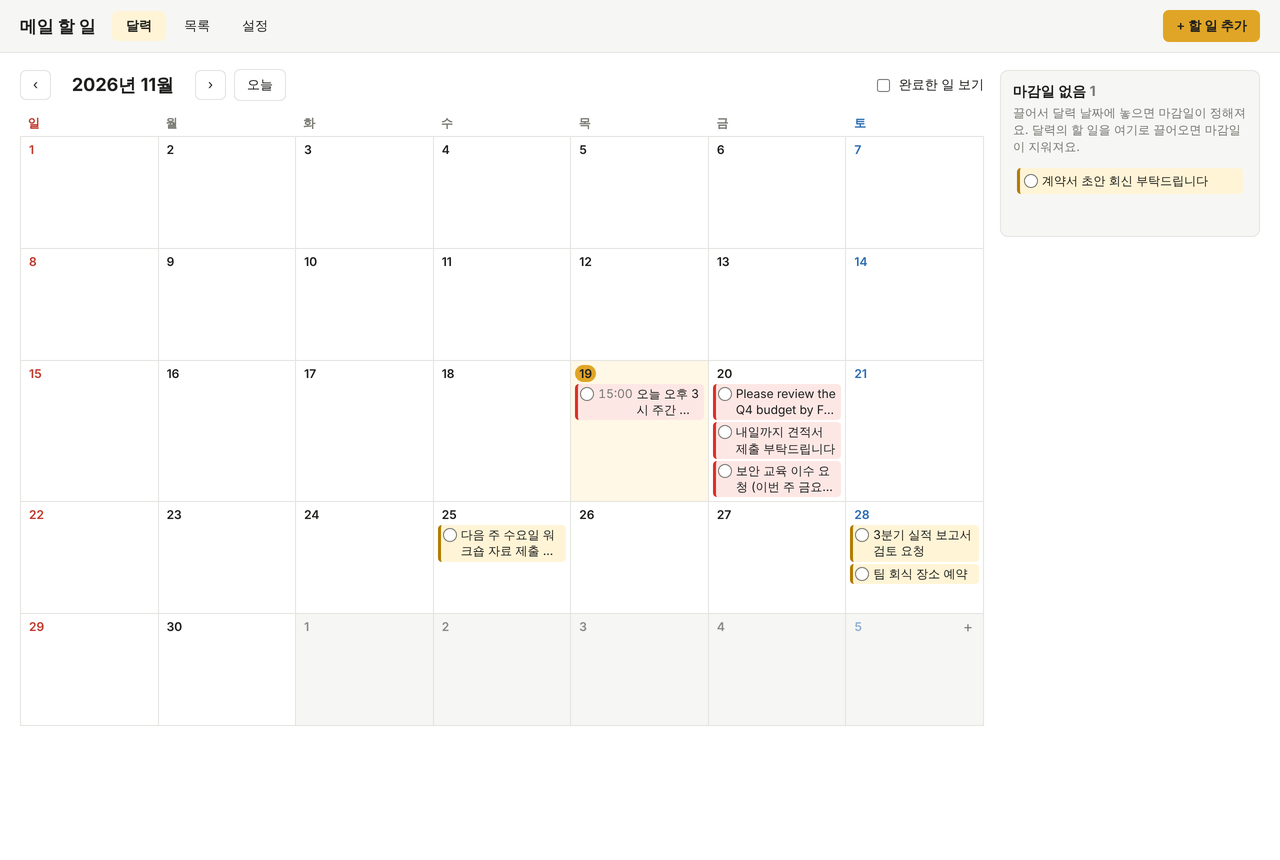
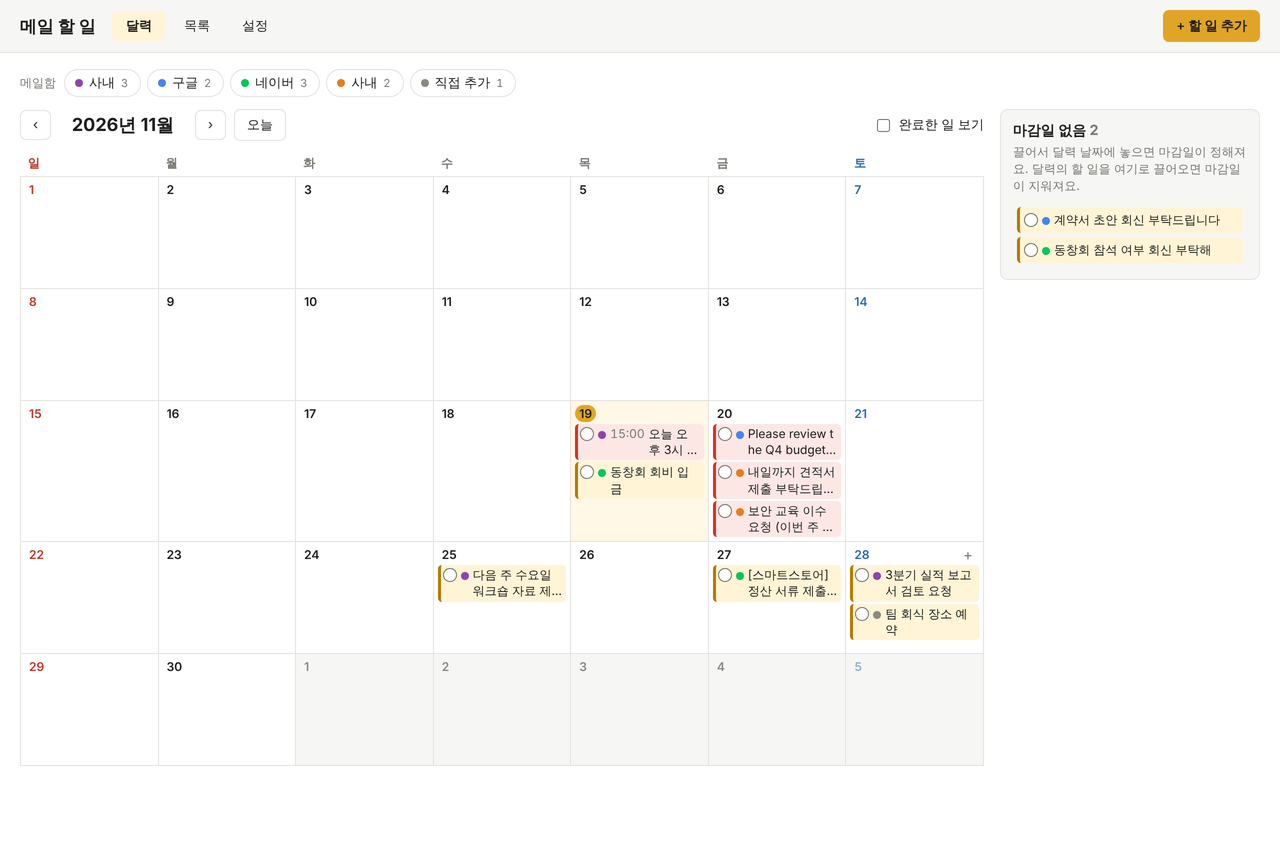
메일 할 일: 구글·네이버·사내 메일함 구분과 메일함별 골라 보기
- 할 일마다 메일함 색 점과 이름 표시(달력, 목록, 팝업)
- 구글·네이버는 이름·색 자동, 그 밖의 메일함은 "사내"로 시작
- 설정 탭과 팝업에서 메일함 이름·색 변경
- 달력·목록 위 메일함 버튼으로 특정 메일함만 보기
- 편집 창에서 메일함 선택(직접 추가한 할 일 포함)
- 네이버 메일형 가짜 메일함과 메일함 구분 검사를 브라우저 테스트에 추가

Claude-Session: https://claude.ai/code/session_01Af8qia7RZBuEQAudVgsqeA

diff --git a/mail-todo/pages/dashboard.js b/mail-todo/pages/dashboard.js
@@ -1,6 +1,7 @@
 // 달력·목록·설정 화면
 import { DEFAULT_RULES, addDays, mergeRules, parseYmd, sitePattern, ymd } from '../src/rules.js';
 import { aiAvailability, prepareModel, refineSubject } from '../src/ai.js';
+import { listMailboxes, mailboxOf } from '../src/mailboxes.js';
 
 const $ = (id) => document.getElementById(id);
 const send = (msg) => chrome.runtime.sendMessage(msg);
@@ -11,6 +12,13 @@ let todos = [];
 let settings = {};
 let sites = [];
 let view = new Date(new Date().getFullYear(), new Date().getMonth(), 1);
+
+// 숨긴 메일함(이 브라우저에서만 기억하는 보기 설정)
+const hidden = new Set((() => { try { return JSON.parse(localStorage.getItem('hiddenMailboxes') || '[]'); } catch { return []; } })());
+const saveHidden = () => { try { localStorage.setItem('hiddenMailboxes', JSON.stringify([...hidden])); } catch { /* 저장 못 해도 동작 */ } };
+const mb = (t) => mailboxOf(t.site, settings.mailboxes);
+const shown = (t) => !hidden.has(t.site || '');
+const dot = (m) => h('span', { class: 'mb-dot', style: `background:${m.color}`, 'aria-hidden': 'true' });
 
 // 사용자 데이터(메일 제목 등)는 항상 textContent로만 넣습니다.
 function h(tag, props = {}, ...children) {
@@ -78,9 +86,29 @@ const currentTab = () => document.querySelector('.tabs button[aria-selected="tru
 
 function render() {
   const tab = currentTab();
+  $('mbBar').hidden = tab === 'settings';
+  if (tab !== 'settings') renderMailboxBar();
   if (tab === 'calendar') renderCalendar();
   else if (tab === 'list') renderList();
   else renderSettings();
+}
+
+// ---------- 메일함 골라 보기 ----------
+function renderMailboxBar() {
+  const boxes = listMailboxes(sites, todos, settings.mailboxes);
+  const bar = $('mbBar');
+  if (boxes.length < 2) { bar.replaceChildren(); bar.hidden = true; return; }
+  const count = (key) => todos.filter((t) => !t.done && (t.site || '') === key).length;
+  bar.replaceChildren(
+    h('span', { class: 'mb-label', text: '메일함' }),
+    ...boxes.map((m) => h('button', {
+      class: 'mb-toggle',
+      'aria-pressed': String(!hidden.has(m.key)),
+      title: m.key ? `${m.name} (${m.key})` : m.name,
+      onclick: () => { hidden.has(m.key) ? hidden.delete(m.key) : hidden.add(m.key); saveHidden(); render(); },
+    }, dot(m), h('span', { text: m.name }), h('span', { class: 'mb-count', text: String(count(m.key)) }))),
+    ...(hidden.size ? [h('button', { class: 'link', text: '모두 보기', onclick: () => { hidden.clear(); saveHidden(); render(); } })] : []),
+  );
 }
 
 // ---------- 할 일 조각(달력·사이드 공용) ----------
@@ -88,7 +116,7 @@ function chip(t) {
   const el = h('div', {
     class: `chip p-${t.priority}${t.done ? ' done' : ''}${isOverdue(t) ? ' overdue' : ''}`,
     draggable: 'true',
-    title: [t.title, t.dueTime && `시간: ${t.dueTime}`, t.memo && `메모: ${t.memo}`, t.subject && t.subject !== t.title && `메일: ${t.subject}`].filter(Boolean).join('\n'),
+    title: [t.title, `메일함: ${mb(t).name}`, t.dueTime && `시간: ${t.dueTime}`, t.memo && `메모: ${t.memo}`, t.subject && t.subject !== t.title && `메일: ${t.subject}`].filter(Boolean).join('\n'),
     dataset: { id: t.id },
     onclick: () => openEdit(t.id),
     ondragstart: (e) => { e.dataTransfer.setData('text/plain', t.id); e.dataTransfer.effectAllowed = 'move'; el.classList.add('dragging'); },
@@ -100,6 +128,7 @@ function chip(t) {
     text: t.done ? '✓' : '',
     onclick: (e) => { e.stopPropagation(); toggleDone(t); },
   }),
+  dot(mb(t)),
   t.dueTime && h('span', { class: 'time', text: t.dueTime }),
   h('span', { class: 't', text: t.title }),
   t.aiDoubt && !t.done && h('span', { class: 'ai-doubt', title: '내장 AI는 할 일이 아닐 수 있다고 판단했어요', text: 'AI?' }));
@@ -125,7 +154,7 @@ function renderCalendar() {
 
   const byDate = new Map();
   for (const t of todos) {
-    if (!t.due || (!showDone && t.done)) continue;
+    if (!t.due || (!showDone && t.done) || !shown(t)) continue;
     if (!byDate.has(t.due)) byDate.set(t.due, []);
     byDate.get(t.due).push(t);
   }
@@ -157,7 +186,7 @@ function renderCalendar() {
     grid.append(cell);
   }
 
-  const noDue = sortTodos(todos.filter((t) => !t.due && (showDone || !t.done)));
+  const noDue = sortTodos(todos.filter((t) => !t.due && (showDone || !t.done) && shown(t)));
   $('noDueCount').textContent = noDue.length ? `${noDue.length}` : '';
   $('noDueList').replaceChildren(...(noDue.length ? noDue.map((t) => h('li', {}, chip(t))) : [h('li', { class: 'empty', text: '없음' })]));
 }
@@ -172,7 +201,7 @@ makeDropZone($('noDueList'), '');
 function renderList() {
   const filter = $('listFilter').value;
   const q = $('listSearch').value.trim().toLowerCase();
-  let list = todos.filter((t) => (filter === 'all' ? true : filter === 'done' ? t.done : !t.done));
+  let list = todos.filter((t) => shown(t) && (filter === 'all' ? true : filter === 'done' ? t.done : !t.done));
   if (q) list = list.filter((t) => [t.title, t.memo, t.subject].some((s) => (s || '').toLowerCase().includes(q)));
   list = sortTodos(list);
   $('listCount').textContent = `${list.length}개`;
@@ -208,6 +237,7 @@ function row(t) {
       h('div', { class: 'title', text: t.title }),
       (t.memo || (t.subject && t.subject !== t.title)) && h('div', { class: 'sub', text: t.memo || `메일: ${t.subject}` })),
     t.aiDoubt && !t.done && h('span', { class: 'ai-doubt', title: '내장 AI는 할 일이 아닐 수 있다고 판단했어요', text: 'AI: 할 일 아님?' }),
+    h('span', { class: 'mb-tag', title: t.site || '' }, dot(mb(t)), mb(t).name),
     h('span', { class: `badge p-${t.priority}`, text: PRIORITY_LABEL[t.priority] }),
     h('span', { class: `due${isOverdue(t) ? ' overdue' : ''}`, text: formatDue(t) }),
     t.link && h('a', { href: t.link, target: '_blank', rel: 'noopener', text: '메일 ↗' }),
@@ -231,6 +261,12 @@ function openEdit(id, date = '') {
   $('fPriority').value = t?.priority || 'normal';
   $('fMemo').value = t?.memo || '';
   $('fDone').checked = !!t?.done;
+  const boxes = listMailboxes(sites, todos, settings.mailboxes);
+  if (!boxes.some((m) => m.key === '')) boxes.push(mailboxOf(''));
+  $('fMailbox').replaceChildren(...boxes.map((m) => h('option', { value: m.key, text: m.key ? `${m.name} (${m.key})` : m.name })));
+  // 새로 추가할 때는 지금 하나만 보고 있는 메일함을 기본값으로
+  const onlyShown = boxes.filter((m) => !hidden.has(m.key));
+  $('fMailbox').value = t ? t.site || '' : onlyShown.length === 1 ? onlyShown[0].key : '';
   $('fDelete').hidden = !t;
   const fromMail = t?.source === 'mail';
   $('fOrigin').hidden = !fromMail;
@@ -254,6 +290,7 @@ $('editForm').addEventListener('submit', async (e) => {
     priority: $('fPriority').value,
     memo: $('fMemo').value,
     done: $('fDone').checked,
+    site: $('fMailbox').value,
   };
   if (editingId) await update(editingId, { ...fields, edited: true, aiDoubt: false });
   else await send({ type: 'todo:add', todo: { ...fields, source: 'manual' } });
@@ -270,9 +307,23 @@ $('addBtn').onclick = () => openEdit(null, currentTab() === 'calendar' ? today()
 
 // ---------- 설정 ----------
 function renderSettings() {
-  $('siteList').replaceChildren(...(sites.length
+  const saveMailbox = (host, patch) => send({
+    type: 'settings:set',
+    patch: { mailboxes: { ...(settings.mailboxes || {}), [host]: { ...mailboxOf(host, settings.mailboxes), ...patch, key: undefined } } },
+  });
+  // 이름을 고치는 중이면 다시 그리지 않음(입력이 끊기지 않게)
+  if (!document.activeElement?.closest('#siteList')) $('siteList').replaceChildren(...(sites.length
     ? sites.map((host) => h('li', {},
-      h('span', { text: host }),
+      h('input', { type: 'color', value: mailboxOf(host, settings.mailboxes).color, 'aria-label': `${host} 색`, onchange: (e) => saveMailbox(host, { color: e.target.value }) }),
+      h('input', {
+        type: 'text',
+        class: 'mb-name',
+        value: mailboxOf(host, settings.mailboxes).name,
+        maxlength: '20',
+        'aria-label': `${host} 이름`,
+        onchange: (e) => { const name = e.target.value.trim(); if (name) saveMailbox(host, { name }); },
+      }),
+      h('span', { class: 'muted host', text: host }),
       h('button', {
         class: 'danger',
         text: '끄기',

diff --git a/mail-todo/pages/popup.js b/mail-todo/pages/popup.js
@@ -1,4 +1,5 @@
 import { sitePattern, ymd } from '../src/rules.js';
+import { mailboxOf } from '../src/mailboxes.js';
 
 const $ = (id) => document.getElementById(id);
 const send = (msg) => chrome.runtime.sendMessage(msg);
@@ -20,14 +21,33 @@ async function renderSite() {
     $('siteState').hidden = true;
     $('siteHelp').textContent = '사내 메일, Gmail, Outlook 같은 메일함을 연 상태에서 아이콘을 눌러 주세요.';
     $('toggleSite').hidden = true;
+    $('siteDot').hidden = true;
+    $('mbNameRow').hidden = true;
     return;
   }
   host = url.hostname;
-  const { sites = [] } = await chrome.storage.local.get('sites');
+  const { sites = [], settings = {} } = await chrome.storage.local.get(['sites', 'settings']);
   const granted = await chrome.permissions.contains({ origins: [sitePattern(host)] });
   const on = granted && sites.includes(host);
+  const m = mailboxOf(host, settings.mailboxes);
 
-  $('siteName').textContent = host;
+  $('siteName').textContent = on ? `${m.name} · ${host}` : host;
+  $('siteName').title = host;
+  $('siteDot').hidden = !on;
+  $('siteDot').style.background = m.color;
+  $('mbNameRow').hidden = !on;
+  if (document.activeElement !== $('mbName')) $('mbName').value = m.name;
+  $('mbName').onchange = async () => {
+    const name = $('mbName').value.trim();
+    if (!name) { $('mbName').value = m.name; return; }
+    const { settings: cur = {} } = await chrome.storage.local.get('settings');
+    const mailboxes = { ...(cur.mailboxes || {}) };
+    const { key, ...base } = mailboxOf(host, mailboxes);
+    mailboxes[host] = { ...base, name };
+    await send({ type: 'settings:set', patch: { mailboxes } });
+    say(`메일함 이름을 "${name}"(으)로 바꿨어요.`);
+    renderSite();
+  };
   $('siteState').textContent = on ? '수집 중' : '꺼짐';
   $('siteState').classList.toggle('on', on);
   $('siteHelp').textContent = on
@@ -78,7 +98,7 @@ $('pickBtn').onclick = async () => {
 };
 
 async function renderDue() {
-  const { todos = [] } = await chrome.storage.local.get('todos');
+  const { todos = [], settings = {} } = await chrome.storage.local.get(['todos', 'settings']);
   const today = ymd(new Date());
   const due = todos
     .filter((t) => !t.done && t.due && t.due <= today)
@@ -108,11 +128,18 @@ async function renderDue() {
     const d = document.createElement('span');
     d.className = `d${t.due < today ? ' overdue' : ''}`;
     d.textContent = t.due < today ? `${t.due.slice(5).replace('-', '/')} 지남` : (t.dueTime || '오늘');
-    li.append(chk, title, d);
+    const m = mailboxOf(t.site, settings.mailboxes);
+    const mbEl = document.createElement('span');
+    mbEl.className = 'mb';
+    const dotEl = document.createElement('span');
+    dotEl.className = 'mb-dot';
+    dotEl.style.background = m.color;
+    mbEl.append(dotEl, m.name);
+    li.append(chk, title, mbEl, d);
     list.append(li);
   }
 }
 
-chrome.storage.onChanged.addListener((c, area) => { if (area === 'local' && c.todos) renderDue(); });
+chrome.storage.onChanged.addListener((c, area) => { if (area === 'local' && (c.todos || c.settings)) renderDue(); });
 renderSite();
 renderDue();

diff --git a/mail-todo/src/mailboxes.js b/mail-todo/src/mailboxes.js
@@ -1,0 +1,35 @@
+// 메일함(사이트)마다 이름과 색을 붙여 할 일을 구분합니다.
+// 사용자가 설정에서 이름·색을 바꾸면 settings.mailboxes[host]에 저장됩니다.
+
+const KNOWN = [
+  [/^mail\.google\.com$/, '구글', '#4285f4'],
+  [/^mail\.naver\.com$/, '네이버', '#03c75a'],
+  [/^mail\.worksmobile\.com$/, '네이버웍스', '#00a0e9'],
+  [/^outlook\.(office|office365|live)\.com$/, 'Outlook', '#0f6cbd'],
+  [/^mail\.daum\.net$/, '다음', '#ff5a4a'],
+];
+
+// 알려지지 않은 메일함(대부분 사내 그룹웨어)에 차례로 쓰는 색
+const PALETTE = ['#8e44ad', '#e67e22', '#16a085', '#c2185b', '#5d6d7e', '#b7950b'];
+
+export const MANUAL = { key: '', name: '직접 추가', color: '#8a8a84' };
+
+export function defaultMailbox(host, existing = {}) {
+  for (const [re, name, color] of KNOWN) if (re.test(host)) return { name, color };
+  const used = new Set(Object.values(existing).map((m) => m.color));
+  const color = PALETTE.find((c) => !used.has(c)) || PALETTE[Object.keys(existing).length % PALETTE.length];
+  return { name: '사내', color };
+}
+
+export function mailboxOf(site, mailboxes = {}) {
+  if (!site) return MANUAL;
+  return { key: site, ...defaultMailbox(site, mailboxes), ...(mailboxes[site] || {}) };
+}
+
+// 화면에 보여 줄 메일함 목록: 켠 사이트 + 할 일에 남아 있는 사이트 + 직접 추가
+export function listMailboxes(sites, todos, mailboxes = {}) {
+  const keys = [...new Set([...sites, ...todos.map((t) => t.site || '').filter(Boolean)])];
+  const list = keys.map((k) => mailboxOf(k, mailboxes));
+  if (todos.some((t) => !t.site)) list.push(MANUAL);
+  return list;
+}

diff --git a/mail-todo/pages/dashboard.css b/mail-todo/pages/dashboard.css
@@ -199,3 +199,25 @@ dialog input[type="text"], dialog textarea { width: 100%; font-weight: 400; }
   .rules { grid-template-columns: 1fr; }
   .day { min-height: 80px; }
 }
+
+/* ---------- 메일함 구분 ---------- */
+.mb-bar[hidden] { display: none; }
+.mb-bar { display: flex; flex-wrap: wrap; align-items: center; gap: 6px; margin-bottom: 12px; }
+.mb-label { font-size: 12px; color: var(--muted); margin-right: 2px; }
+.mb-toggle {
+  display: inline-flex;
+  align-items: center;
+  gap: 6px;
+  border-radius: 999px;
+  padding: 4px 12px 4px 10px;
+}
+.mb-toggle[aria-pressed="false"] { opacity: .45; }
+.mb-toggle[aria-pressed="false"] span:not(.mb-dot) { text-decoration: line-through; }
+.mb-count { font-size: 11px; color: var(--muted); font-variant-numeric: tabular-nums; }
+.mb-dot { width: 8px; height: 8px; border-radius: 50%; flex-shrink: 0; display: inline-block; }
+.chip .mb-dot { margin-top: 5px; }
+.mb-tag { display: inline-flex; align-items: center; gap: 5px; font-size: 12px; color: var(--muted); white-space: nowrap; }
+.site-list li { gap: 10px; justify-content: flex-start; }
+.site-list li .host { flex: 1; font-size: 12px; }
+.site-list input[type="color"] { width: 28px; height: 28px; padding: 0; border: 1px solid var(--border); border-radius: 6px; background: none; cursor: pointer; }
+.site-list .mb-name { width: 140px; }

diff --git a/mail-todo/pages/dashboard.html b/mail-todo/pages/dashboard.html
@@ -20,6 +20,9 @@
   </header>
 
   <main>
+    <!-- 메일함별로 골라 보기 (달력·목록 공통) -->
+    <div id="mbBar" class="mb-bar" role="group" aria-label="메일함 골라 보기"></div>
+
     <!-- 달력 -->
     <section id="tab-calendar" class="tab">
       <div class="cal-layout">
@@ -63,7 +66,7 @@
       <div class="settings">
         <article class="card">
           <h3>할 일을 수집하는 메일함</h3>
-          <p class="muted">메일함 페이지에서 툴바의 확장 프로그램 아이콘을 누르고 <b>이 메일함에서 켜기</b>를 누르면 여기에 추가돼요.</p>
+          <p class="muted">메일함 페이지에서 툴바의 확장 프로그램 아이콘을 누르고 <b>이 메일함에서 켜기</b>를 누르면 여기에 추가돼요. 이름과 색을 바꾸면 달력과 목록에 그대로 표시돼요.</p>
           <ul id="siteList" class="site-list"></ul>
         </article>
 
@@ -122,6 +125,9 @@
             <option value="normal">보통</option>
             <option value="low">낮음</option>
           </select>
+        </label>
+        <label>메일함
+          <select id="fMailbox"></select>
         </label>
       </div>
       <label>메모<textarea id="fMemo" rows="4" maxlength="5000"></textarea></label>

diff --git a/mail-todo/src/background.js b/mail-todo/src/background.js
@@ -4,6 +4,7 @@
 // - 사용자가 켠 메일 사이트에만 content.js를 등록
 // 네트워크 요청은 하지 않습니다.
 import { analyzeSubject, mergeRules, sitePattern, subjectKey, ymd } from './rules.js';
+import { defaultMailbox } from './mailboxes.js';
 
 const SEEN_LIMIT = 5000;
 
@@ -97,8 +98,14 @@ async function enableSite(host, tabId) {
     runAt: 'document_idle',
     allFrames: true,
   }]);
-  const { sites = [] } = await get('sites');
+  const { sites = [], settings = {} } = await get(['sites', 'settings']);
   if (!sites.includes(host)) await set({ sites: [...sites, host] });
+  // 처음 켜는 메일함에 이름과 색을 정해 둠(구글/네이버는 자동, 그 밖은 "사내")
+  const mailboxes = { ...(settings.mailboxes || {}) };
+  if (!mailboxes[host]) {
+    mailboxes[host] = defaultMailbox(host, mailboxes);
+    await set({ settings: { ...settings, mailboxes } });
+  }
   if (tabId) {
     await chrome.scripting.executeScript({ target: { tabId, allFrames: true }, files: ['src/content.js'] }).catch(() => {});
   }

diff --git a/mail-todo/pages/popup.css b/mail-todo/pages/popup.css
@@ -39,3 +39,9 @@ section h2 { font-size: 13px; margin: 0 0 6px; }
 .chk:hover { border-color: var(--ok); }
 
 footer { padding: 8px 14px 0; font-size: 11px; }
+
+.mb-dot { width: 9px; height: 9px; border-radius: 50%; flex-shrink: 0; display: inline-block; }
+.mb-dot[hidden] { display: none; }
+.mb-name-row { display: flex; align-items: center; gap: 8px; margin-top: 8px; font-size: 12px; color: var(--muted); }
+.mb-name-row input { flex: 1; padding: 4px 8px; }
+.due-list .mb { font-size: 11px; color: var(--muted); white-space: nowrap; display: inline-flex; align-items: center; gap: 4px; }

diff --git a/mail-todo/pages/popup.html b/mail-todo/pages/popup.html
@@ -14,9 +14,13 @@
 
   <section class="site">
     <div class="site-line">
+      <span id="siteDot" class="mb-dot" hidden></span>
       <span id="siteName" class="site-name"></span>
       <span id="siteState" class="site-state"></span>
     </div>
+    <label id="mbNameRow" class="mb-name-row" hidden>메일함 이름
+      <input type="text" id="mbName" maxlength="20" placeholder="예: 사내, 구글, 네이버">
+    </label>
     <p id="siteHelp" class="muted"></p>
     <div class="row">
       <button id="toggleSite"></button>

diff --git a/mail-todo/README.md b/mail-todo/README.md
@@ -10,6 +10,11 @@
 - **어떤 메일함이든**: 사내 그룹웨어, Gmail, Outlook 웹 등 브라우저로 여는 메일함이면 됩니다.
   - 자동 인식: Gmail 전용 인식과, 이름에 `subject`/`title`이 들어간 목록을 찾는 일반 인식
   - 자동으로 못 찾으면 **목록 직접 지정**을 누르고 메일 제목 하나만 클릭하면 됩니다(메일함마다 한 번).
+- **메일함 구분**: 할 일마다 어느 메일함에서 왔는지 색 점과 이름으로 표시합니다.
+  - 구글(`mail.google.com`)·네이버(`mail.naver.com`)는 이름과 색이 자동으로 붙고, 그 밖의 메일함은 "사내"로 시작합니다.
+  - 이름과 색은 설정 탭이나 팝업에서 바꿀 수 있습니다(예: 사내 메일함이 둘이면 "본사", "그룹사").
+  - 달력·목록 위의 메일함 버튼을 눌러 특정 메일함의 할 일만 골라 볼 수 있습니다.
+  - 직접 추가한 할 일은 "직접 추가"로 표시되고, 편집 창에서 메일함을 고를 수 있습니다.
 - **할 일 판단**(PC 안에서만): "요청, 검토, 회신, 제출, 결재…" 같은 단어와 마감 표현을 찾습니다.
   - 날짜: `11/25`, `11월 25일`, `2026-12-03`, `25일까지`, `오늘/금일`, `내일`, `모레`, `D-3`, `3일 이내`, `금요일까지`, `이번 주 금요일`, `다음 주 수요일`, `차주 중`, `이번 달 말`, `by Friday`, `EOD`
   - 시간: `오후 3시`, `10시 반`, `15:00`
@@ -71,6 +76,7 @@
 | `src/rules.js` | 할 일·마감일 판단 규칙 |
 | `src/content.js` | 메일 목록에서 제목만 읽기, 목록 직접 지정 |
 | `src/background.js` | 저장, 중복 제거, 사이트 켜기/끄기, 배지 |
+| `src/mailboxes.js` | 메일함 이름·색 |
 | `src/ai.js` | 브라우저 내장 AI(선택) |
 | `pages/` | 팝업, 달력·목록·설정 화면 |
 | `tests/` | 규칙 테스트, 실제 브라우저 테스트 |
@@ -87,10 +93,11 @@ node --test mail-todo/tests/rules.test.mjs
 node mail-todo/tests/browser-test.mjs
 ```
 
-실제 Chromium에 확장 프로그램을 올리고, 가짜 메일함 3종(그룹웨어형, Gmail형, 클래스 이름이 무작위인 메일함)에서 다음을 점검합니다.
+실제 Chromium에 확장 프로그램을 올리고, 가짜 메일함 4종(그룹웨어형, Gmail형, 네이버 메일형, 클래스 이름이 무작위인 메일함)에서 다음을 점검합니다.
 
 - 제목 읽기, 새 메일 자동 감지, 목록 직접 지정
 - 달력 표시, 끌어서 날짜 바꾸기, 수정, 완료, 추가, 삭제
+- 메일함 이름·색 자동 지정, 메일함별 골라 보기, 이름 바꾸기
 - 규칙 변경, 팝업, 배지
 
 Playwright가 필요합니다(`npm i -D playwright`). 결과와 스크린샷은 `mail-todo/test-results/`에 저장됩니다.
